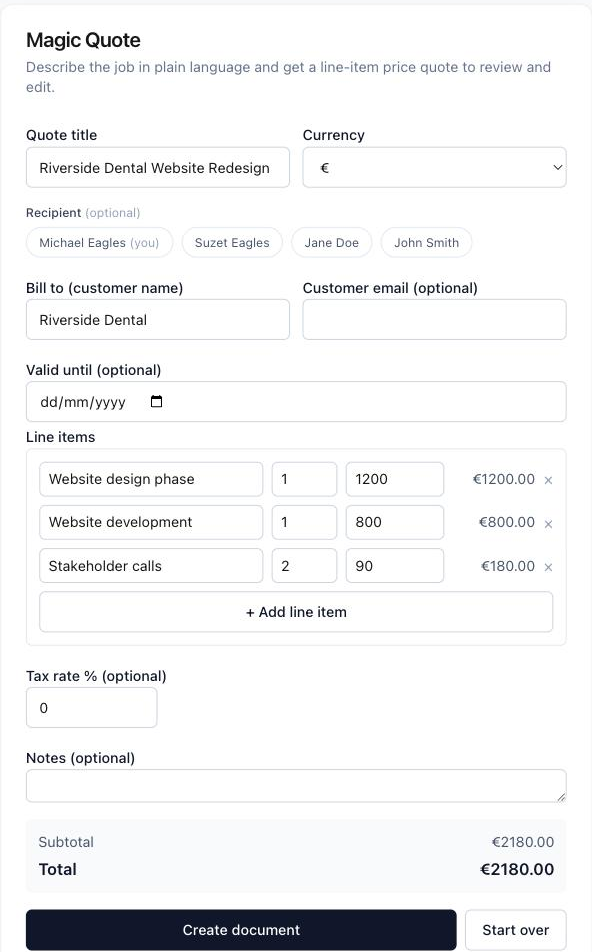
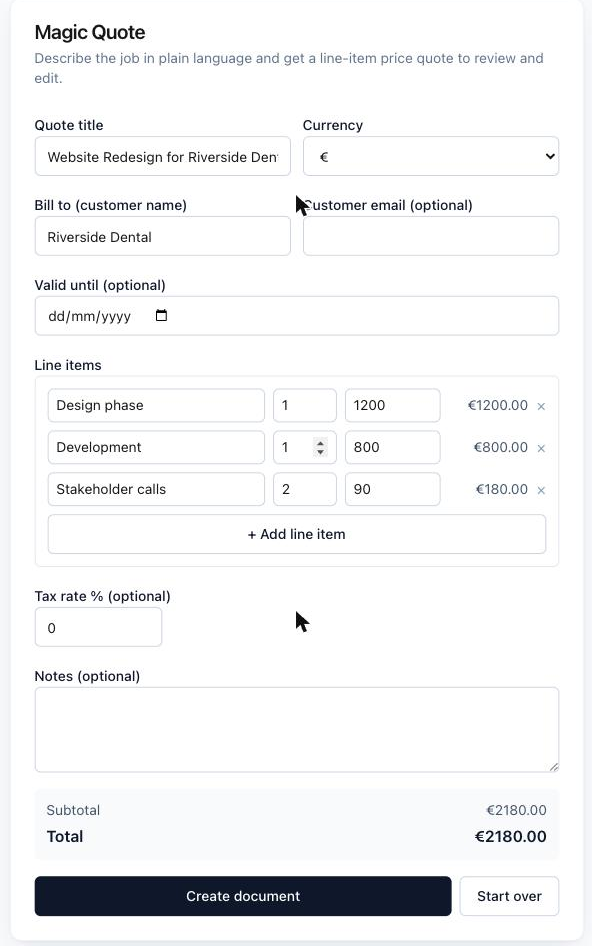
Recapture Magic Quote hero screenshot (Recipient picker removed)
The previous hero-magic-quote.png was captured before today's redesign
that removed the Recipient picker from Magic Quote's review step (see
"Redesign AI Drafter/Magic Quote" commit) — it still showed the old
"Michael Eagles (you), Suzet Eagles, Jane Doe, John Smith" chip row,
which no longer exists in the product. Recaptured a live screenshot of
the current review screen (same Riverside Dental example) and re-cropped/
stitched the two halves seamlessly (592x946, was 592x952 — height
updated to match exactly). Alt text also updated to drop the now-
inaccurate "recipient picker" mention.

diff --git a/src/app/magic-quote/page.tsx b/src/app/magic-quote/page.tsx
@@ -106,9 +106,9 @@ export default async function MagicQuotePage() {
         <div className="w-full max-w-sm overflow-hidden rounded-xl border border-slate-200/60 shadow-[0_1px_2px_rgba(15,23,42,0.04),0_10px_28px_-8px_rgba(15,23,42,0.12)]">
           <Image
             src="/hero-magic-quote.png"
-            alt="Magic Quote review screen showing an AI-generated line-item quote with recipient picker and computed totals"
+            alt="Magic Quote review screen showing an AI-generated line-item quote with editable line items and computed totals"
             width={592}
-            height={952}
+            height={946}
             priority
             sizes="(max-width: 640px) 90vw, 384px"
             className="h-auto w-full"
